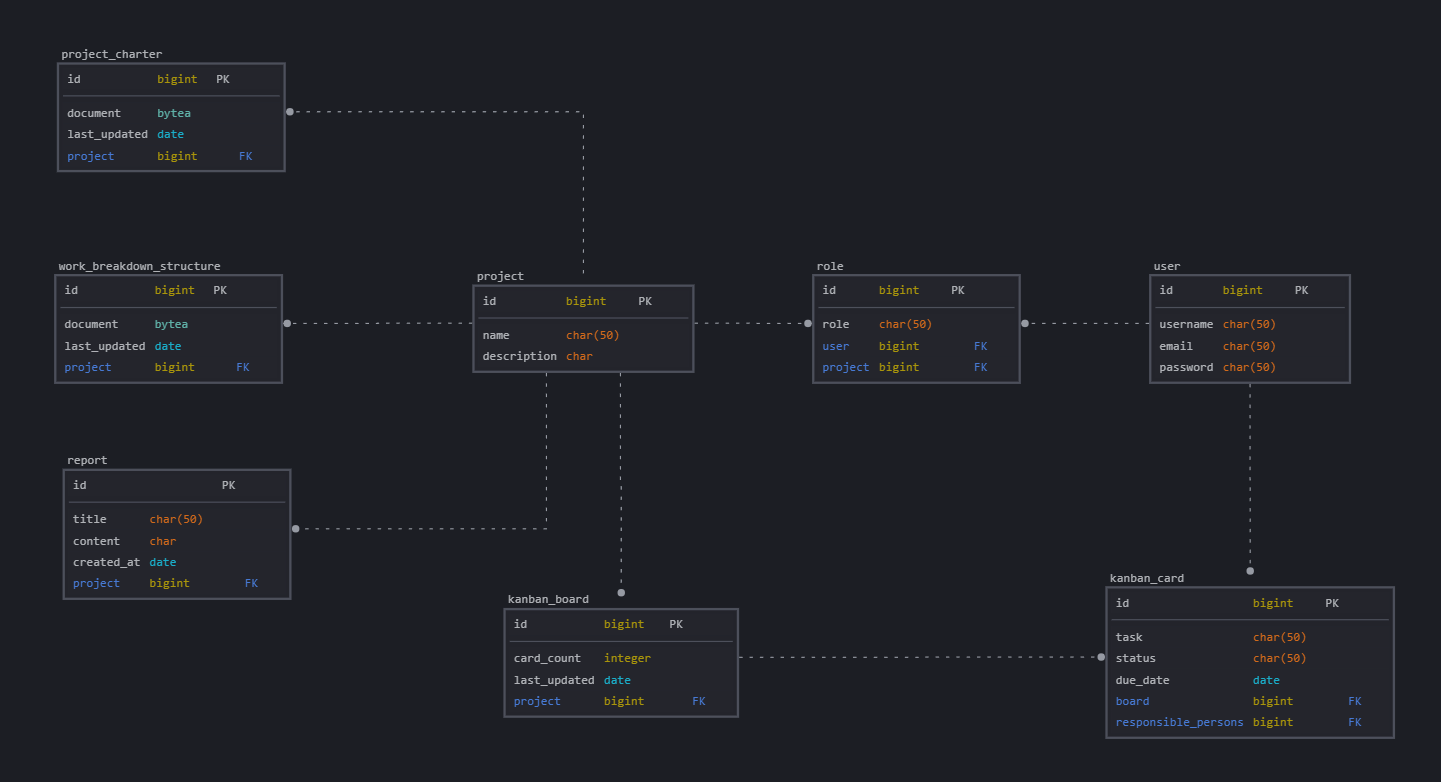
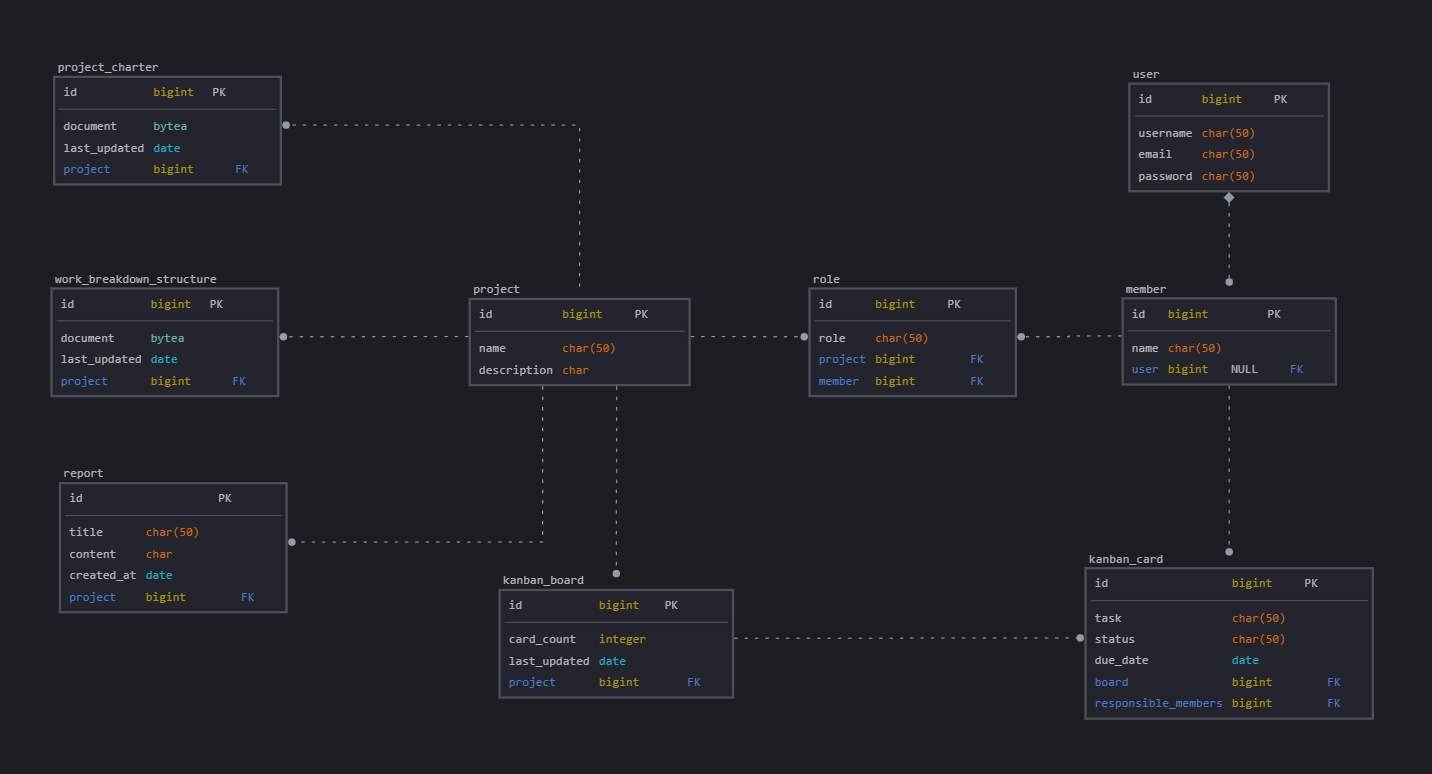
project_management models created

diff --git a/backend/project_manager/models.py b/backend/project_manager/models.py
@@ -2,4 +2,93 @@ from django.db import models
 from accounts.models import User
 
 
+class Project(models.Model):
+    name = models.CharField(max_length=50)
+    description = models.TextField(max_length=750, null=True, blank=True)
+    
+    creator = models.ForeignKey(User, on_delete=models.CASCADE, related_name='users')
+    
+    def __str__(self):
+        return f'{self.name} - created by {self.creator}'
+    
 
+class Member(models.Model):
+    name = models.CharField(max_length=50)
+    
+    account = models.ForeignKey(User, on_delete=models.SET_NULL, blank=True, null=True, related_name='members')    
+    
+    def __str__(self):
+        return self.name
+    
+    
+class Role(models.Model):
+    # enumaration types: https://docs.djangoproject.com/en/5.2/ref/models/fields/#enumeration-types
+    class RoleType(models.TextChoices):
+        MANAGER = 'manager'
+        WORKER = 'worker'
+    
+    role = models.CharField(max_length=50, choices=RoleType.choices)
+    
+    project = models.ForeignKey(Project, on_delete=models.CASCADE, related_name='roles')
+    member = models.ForeignKey(Member, on_delete=models.CASCADE, related_name='roles')
+    
+    def __str__(self):
+        return f'{self.member} is a {self.role} at {self.project}'
+    
+
+class ProjectCharter(models.Model):
+    document = models.FileField(upload_to='documents/project_charters/')
+    last_updated = models.DateTimeField(auto_now=True)
+    
+    project = models.ForeignKey(Project, on_delete=models.CASCADE, related_name='project charters')
+    
+    def __str__(self):
+        return f'{self.project}\'s project charter'
+    
+
+class WorkBreakdownStructure(models.Model):
+    document = models.FileField(upload_to='documents/work_breakdown_structures/')
+    last_updated = models.DateTimeField(auto_now=True)
+    
+    project = models.ForeignKey(Project, on_delete=models.CASCADE, related_name='work breakdown structures')
+    
+    def __str__(self):
+        return f'{self.project}\'s work breakdown structure'
+
+
+class Report(models.Model):
+    title = models.CharField(max_length=50)
+    content = models.TextField(max_length=2500)
+    created_at = models.DateTimeField(auto_now_add=True)
+    
+    project = models.ForeignKey(Project, on_delete=models.CASCADE, related_name='reports')
+    
+    def __str__(self):
+        return f'{self.title} ({self.project}) - {self.created_at}'
+    
+
+class KanbanBoard(models.Model):
+    card_count = models.IntegerField(default=0)
+    last_updated = models.DateTimeField(auto_now=True)
+    
+    project = models.ForeignKey(Project, on_delete=models.CASCADE, related_name='kanban boards')
+    
+    def __str__(self):
+        return f'{self.project}\'s kanban board'
+    
+
+class KanbanCard(models.Model):
+    class StatusType(models.TextChoices):
+        TODO = 'to do'
+        IN_PROGRESS = 'in progress'
+        TESTING = 'testing'
+        DONE = 'done'
+        
+    task = models.CharField(max_length=100)
+    status = models.CharField(max_length=50, choices=StatusType.choices)
+    
+    board = models.ForeignKey(KanbanBoard, on_delete=models.CASCADE, related_name='cards')
+    responsible_members = models.ManyToManyField(Member, blank=True, related_name='tasks')
+    
+    def __str__(self):
+        return f'{self.task} - {self.status}'

diff --git a/backend/project_manager/urls.py b/backend/project_manager/urls.py
@@ -1,8 +1,10 @@
 from django.urls import path, include
+from django.conf import settings
+from django.conf.urls.static import static
 
 from . import views
 
 
 urlpatterns = [
     path('', views.test),
-]
+] + static(settings.MEDIA_URL, document_root=settings.MEDIA_ROOT)

diff --git a/backend/backend/settings.py b/backend/backend/settings.py
@@ -118,6 +118,12 @@ USE_TZ = True
 
 STATIC_URL = 'static/'
 
+
+# media directories
+MEDIA_ROOT = BASE_DIR / 'media'
+MEDIA_URL = '/media/'
+
+
 # Default primary key field type
 # https://docs.djangoproject.com/en/5.2/ref/settings/#default-auto-field
 

diff --git a/README.md b/README.md
@@ -1,7 +1,7 @@
 # ProjectManager.ai
 AI powered project management app
 
-# pip packages:
+# pip Packages:
 1. django
 2. djangorestframework
 3. django-cors-headers
@@ -9,12 +9,12 @@ AI powered project management app
 5. email-validator  
 ```pip install django djangorestframework django-cors-headers djangorestframework-simplejwt email-validator```
 
-# npm packages:
+# npm Packages:
 1. vite@6 
 2. @tailwindcss/vite 
 3. tailwindcss
 4. daisyui@latest  
 ```npm install```
 
-# Database Schema
+# Database Schema:
 ![alt text](database_schema.png)
